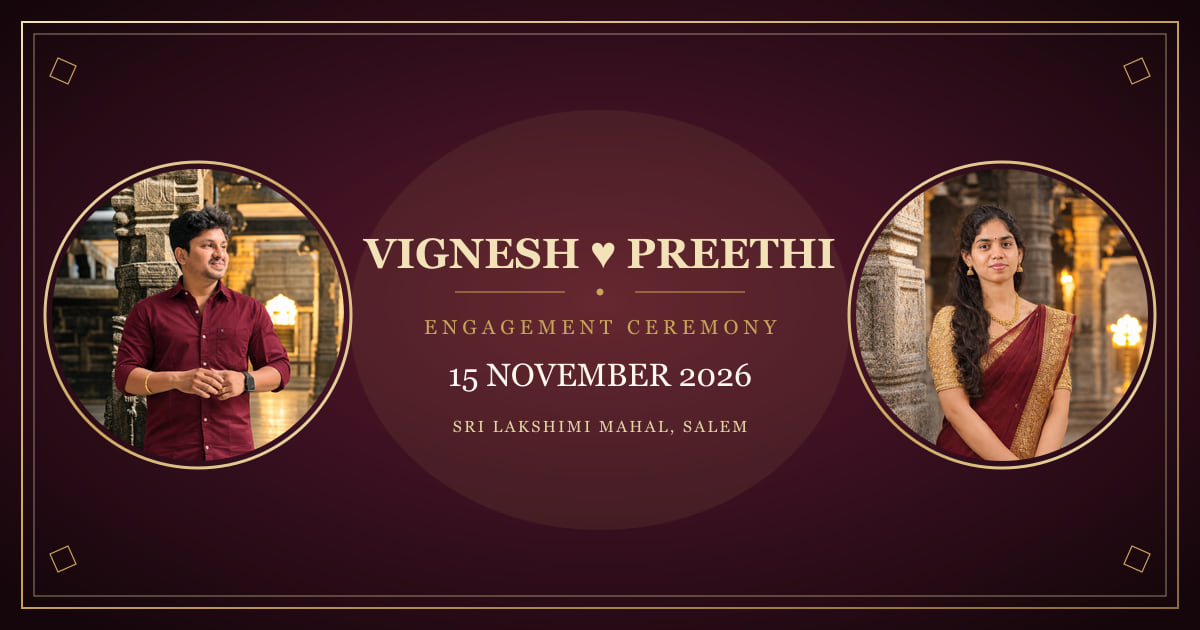
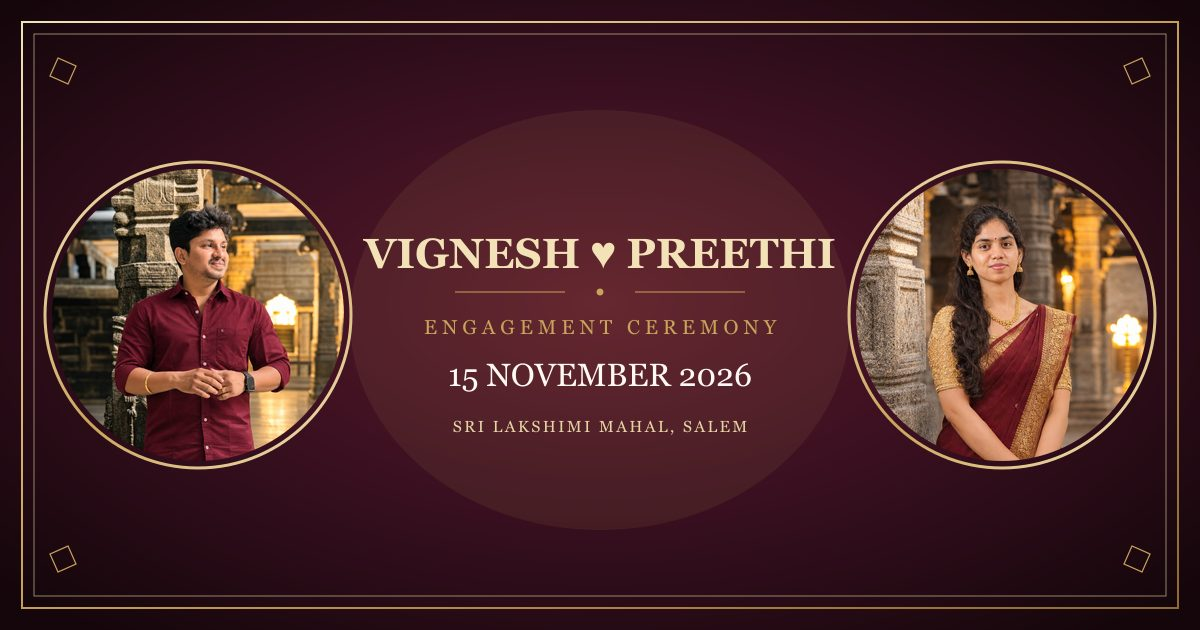
Thumbnail

diff --git a/src/lib/seo.ts b/src/lib/seo.ts
@@ -23,7 +23,7 @@ export const seo = {
   locality: "Salem",
   region: "Tamil Nadu",
   country: "IN",
-  imagePath: "/images/engagement-og.jpg",
+  imagePath: "/images/engagement-og.jpg?v=2",
   imageAlt:
     "Vignesh and Preethi at their engagement ceremony on 15 November 2026 at Sri Lakshimi Mahal, Salem.",
   imageWidth: 1200,
